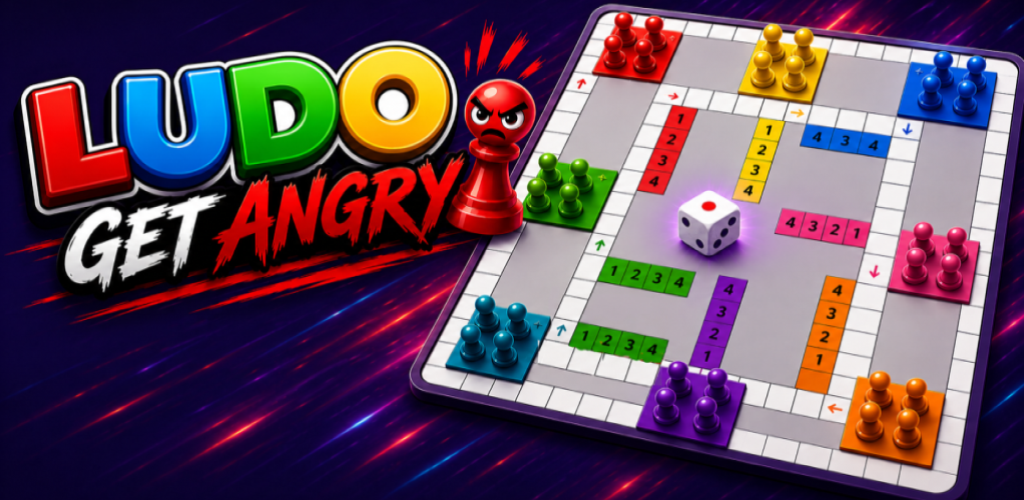
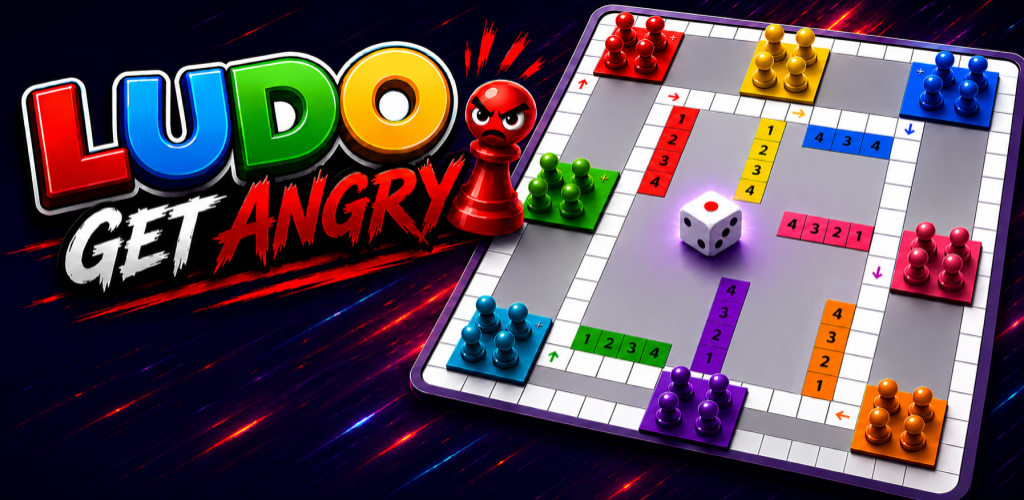
Update project roadmap, enhance settings page, and improve styling
- Revised roadmap items for clarity
- Added new settings options: About, Web App, Source Code, and Support
- Updated MainMenu CSS for improved background styling
- Added new header image for better visual appeal
- Cleaned up privacy policy and terms & conditions by removing unnecessary line breaks

diff --git a/src/pages/Settings.jsx b/src/pages/Settings.jsx
@@ -75,6 +75,39 @@ export default function Settings() {
             </a>
           </div>
         </div>
+
+        <div className="setting-group card">
+          <span className="setting-label">{t('settingsAbout')}</span>
+          <div className="setting-links">
+            <a
+              className="setting-link"
+              href="https://ludo-get-angry.web.app/"
+              target="_blank"
+              rel="noopener noreferrer"
+            >
+              <span>🌐 {t('settingsWebApp')}</span>
+              <span className="setting-link-icon" aria-hidden="true">↗</span>
+            </a>
+            <a
+              className="setting-link"
+              href="https://github.com/strukovnasamobor/ludo-get-angry"
+              target="_blank"
+              rel="noopener noreferrer"
+            >
+              <span>💻 {t('settingsSource')}</span>
+              <span className="setting-link-icon" aria-hidden="true">↗</span>
+            </a>
+            <a
+              className="setting-link"
+              href="https://www.paypal.com/ncp/payment/5J3YEQBD34SW6"
+              target="_blank"
+              rel="noopener noreferrer"
+            >
+              <span>❤️ {t('settingsSupport')}</span>
+              <span className="setting-link-icon" aria-hidden="true">↗</span>
+            </a>
+          </div>
+        </div>
       </div>
     </div>
   );

diff --git a/src/pages/MainMenu.css b/src/pages/MainMenu.css
@@ -5,7 +5,18 @@
   justify-content: space-between;
   padding: var(--sp-lg) var(--sp-md);
   min-height: 100%;
-  background: linear-gradient(160deg, var(--bg-secondary) 0%, var(--bg-primary) 100%);
+  background-color: var(--bg-primary);
+  background-image:
+    linear-gradient(
+      160deg,
+      color-mix(in srgb, var(--bg-secondary) 75%, transparent) 0%,
+      color-mix(in srgb, var(--bg-primary)   88%, transparent) 100%
+    ),
+    url('/images/header-upscaled.png');
+  background-size: cover;
+  background-position: center top;
+  background-repeat: no-repeat;
+  background-attachment: fixed;
 }
 
 .menu-header {

diff --git a/public/privacy_policy.html b/public/privacy_policy.html
@@ -31,19 +31,14 @@
       <li>The time spent on the Application</li>
       <li>The operating system you use on your mobile device</li>
     </ul>
-    <p></p>
-    <br />
     <p>The Application does not gather precise information about the location of your mobile device.</p>
-    <!----><br />
     <p>
       The Application does not use Artificial Intelligence (AI) technologies to process your data or provide features.
     </p>
-    <br />
     <p>
       The Service Provider may use the information you provided to contact you from time to time to provide you with
       important information, required notices and marketing promotions.
     </p>
-    <br />
     <p>
       For a better experience, while using the Application, the Service Provider may require you to provide us with
       certain personally identifiable information, including but not limited to Email. The information that the Service
@@ -55,7 +50,6 @@
       improving the Application and their service. The Service Provider may share your information with third parties in
       the ways that are described in this privacy statement.
     </p>
-    <!----><br />
     <p>The Service Provider may disclose User Provided and Automatically Collected Information:</p>
     <ul>
       <li>as required by law, such as to comply with a subpoena, or similar legal process;</li>
@@ -68,7 +62,6 @@
         information we disclose to them, and have agreed to adhere to the rules set forth in this privacy statement.
       </li>
     </ul>
-    <p></p>
     <br /><strong>Opt-Out Rights</strong>
     <p>
       You can stop all collection of information by the Application easily by uninstalling it. You may use the standard
@@ -87,7 +80,6 @@
       age of 13.
     </p>
     <div>
-      <br />
       <p>
         The Service Provider does not knowingly collect personally identifiable information from children. The Service
         Provider encourages all children to never submit any personally identifiable information through the Application
@@ -113,7 +105,6 @@
       changes to the Privacy Policy by updating this page with the new Privacy Policy. You are advised to consult this
       Privacy Policy regularly for any changes, as continued use is deemed approval of all changes.
     </p>
-    <br />
     <p>This privacy policy is effective as of 2026-05-16</p>
     <br /><strong>Your Consent</strong>
     <p>

diff --git a/public/terms_and_conditions.html b/public/terms_and_conditions.html
@@ -18,19 +18,16 @@
       that was created by Zlatko Damijanić, Jan Jagustović (hereby referred to as "Service Provider") as an Open Source
       service.
     </p>
-    <br />
     <p>
       Upon downloading or utilizing the Application, you are automatically agreeing to the following terms. It is
       strongly advised that you thoroughly read and understand these terms prior to using the Application.
     </p>
-    <!----><br />
     <p>
       The Service Provider is dedicated to ensuring that the Application is as beneficial and efficient as possible. As
       such, they reserve the right to modify the Application or charge for their services at any time and for any
       reason. The Service Provider assures you that any charges for the Application or its services will be clearly
       communicated to you.
     </p>
-    <br />
     <p>
       The Application stores and processes personal data that you have provided to the Service Provider in order to
       provide the Service. It is your responsibility to maintain the security of your phone and access to the
@@ -39,14 +36,12 @@
       actions could expose your phone to malware, viruses, malicious programs, compromise your phone's security
       features, and may result in the Application not functioning correctly or at all.
     </p>
-    <!----><br />
     <p>
       Please be aware that the Service Provider does not assume responsibility for certain aspects. Some functions of
       the Application require an active internet connection, which can be Wi-Fi or provided by your mobile network
       provider. The Service Provider cannot be held responsible if the Application does not function at full capacity
       due to lack of access to Wi-Fi or if you have exhausted your data allowance.
     </p>
-    <br />
     <p>
       If you are using the application outside of a Wi-Fi area, please be aware that your mobile network provider's
       agreement terms still apply. Consequently, you may incur charges from your mobile provider for data usage during
@@ -55,13 +50,11 @@
       home territory (i.e., region or country) without disabling data roaming. If you are not the bill payer for the
       device on which you are using the application, they assume that you have obtained permission from the bill payer.
     </p>
-    <br />
     <p>
       Similarly, the Service Provider cannot always assume responsibility for your usage of the application. For
       instance, it is your responsibility to ensure that your device remains charged. If your device runs out of battery
       and you are unable to access the Service, the Service Provider cannot be held responsible.
     </p>
-    <br />
     <p>
       In terms of the Service Provider's responsibility for your use of the application, it is important to note that
       while they strive to ensure that it is updated and accurate at all times, they do rely on third parties to provide
@@ -69,7 +62,6 @@
       loss, direct or indirect, that you experience as a result of relying entirely on this functionality of the
       application.
     </p>
-    <br /><!---->
     <p>
       The Service Provider may wish to update the application at some point. The application is currently available as
       per the requirements for the operating system (and for any additional systems they decide to extend the
@@ -87,7 +79,6 @@
       page regularly for any changes. The Service Provider will notify you of any changes by posting the new Terms and
       Conditions on this page.
     </p>
-    <br />
     <p>These terms and conditions are effective as of 2026-05-16</p>
     <br /><strong>Contact Us</strong>
     <p>